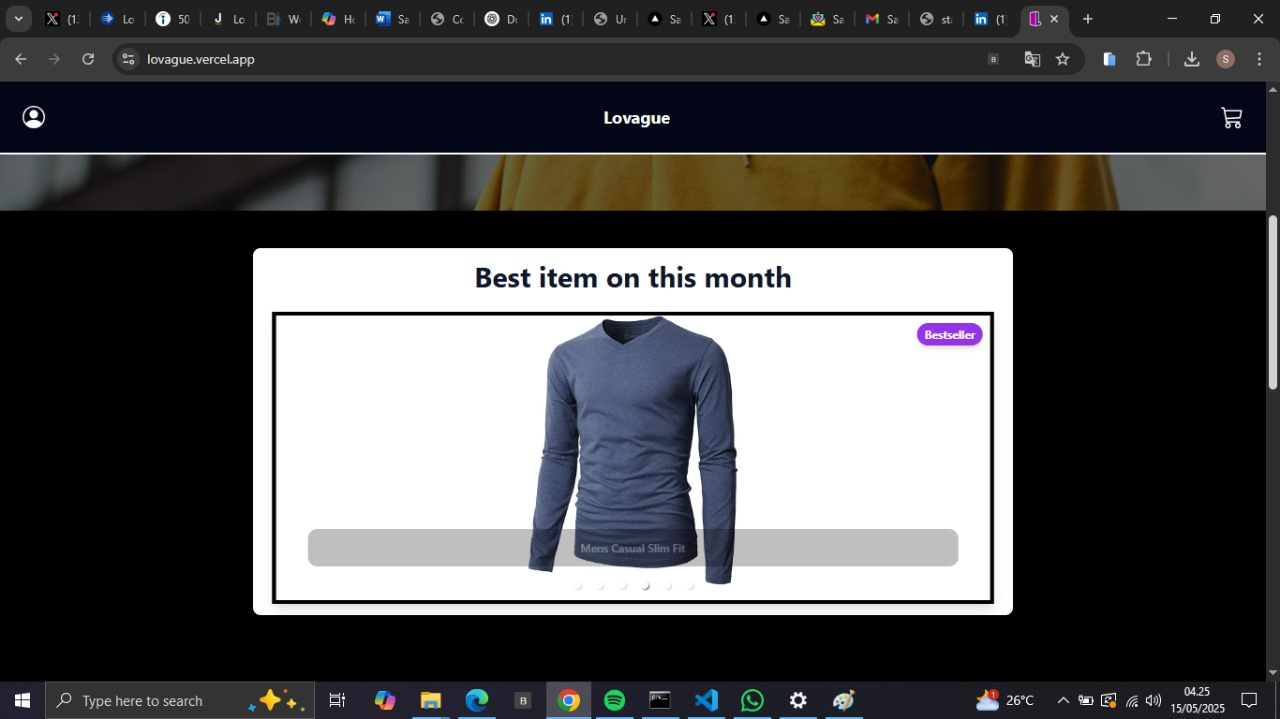
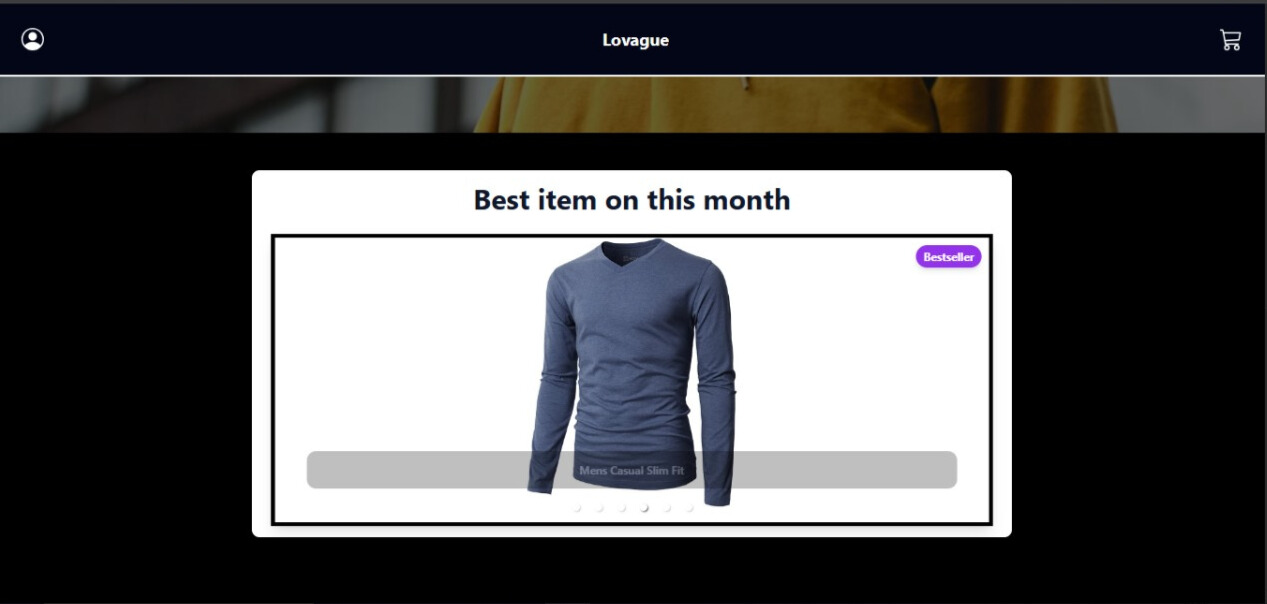
update : project picture

diff --git a/src/app/data.ts b/src/app/data.ts
@@ -21,6 +21,7 @@ export interface IProjectsData {
   name: string;
   description: string;
   date: string;
+  tools: string;
   demoLink: string;
   image : string ;
 }
@@ -32,6 +33,7 @@ export const projectsData: IProjectsData[] = [
     description: " Car Rental App ",
     date: "2024-04-15",
     image: "/image/Ngerental.jpeg",
+    tools: "Next.js, Tailwind CSS , Redux Toolkit",
     demoLink: "https://ngerental.vercel.app/",
   },
   {
@@ -40,20 +42,23 @@ export const projectsData: IProjectsData[] = [
     description: "e-commerce app",
     date: "2024-05-27",
     image: "/image/lovague.jpg",
+    tools: "Next.js, Tailwind CSS , Redux Toolkit",
     demoLink: "https://lovague.vercel.app/",
   },
   {
     id: 3,
     name: "Webziu",
     description: "Company profile website",
+    tools: "Next.js, Tailwind CSS",
     date: "2024-12-30",
-    demoLink: "",
+    demoLink: "https://webziu.vercel.app/",
     image: "/image/webziu.jpg",
   },
   {
     id: 4,
     name: "Wedding Invitation",
     description: "customizable wedding invitation",
+    tools: "Next.js, Tailwind CSS",
     date: "2025-05-10",
     demoLink: "https://satriafania.vercel.app/undangan/20%",
     image: "/image/wedding.jpg",

diff --git a/src/components/projects/index.tsx b/src/components/projects/index.tsx
@@ -51,9 +51,12 @@ const ProjectList: React.FC<ProjectListProps> = ({ projects }) => {
 
           <div className="p-6 space-y-4">
             <h3 className="text-xl font-bold text-accent">{project.name}</h3>
+           
             <p className="text-sm text-gray-400">{project.description}</p>
+            <p className="text-sm text-gray-400">{project.tools}</p>
             <p className="text-xs text-gray-500">
               Released on: {new Date(project.date).toLocaleDateString()}
+              
             </p>
 
             <Link
